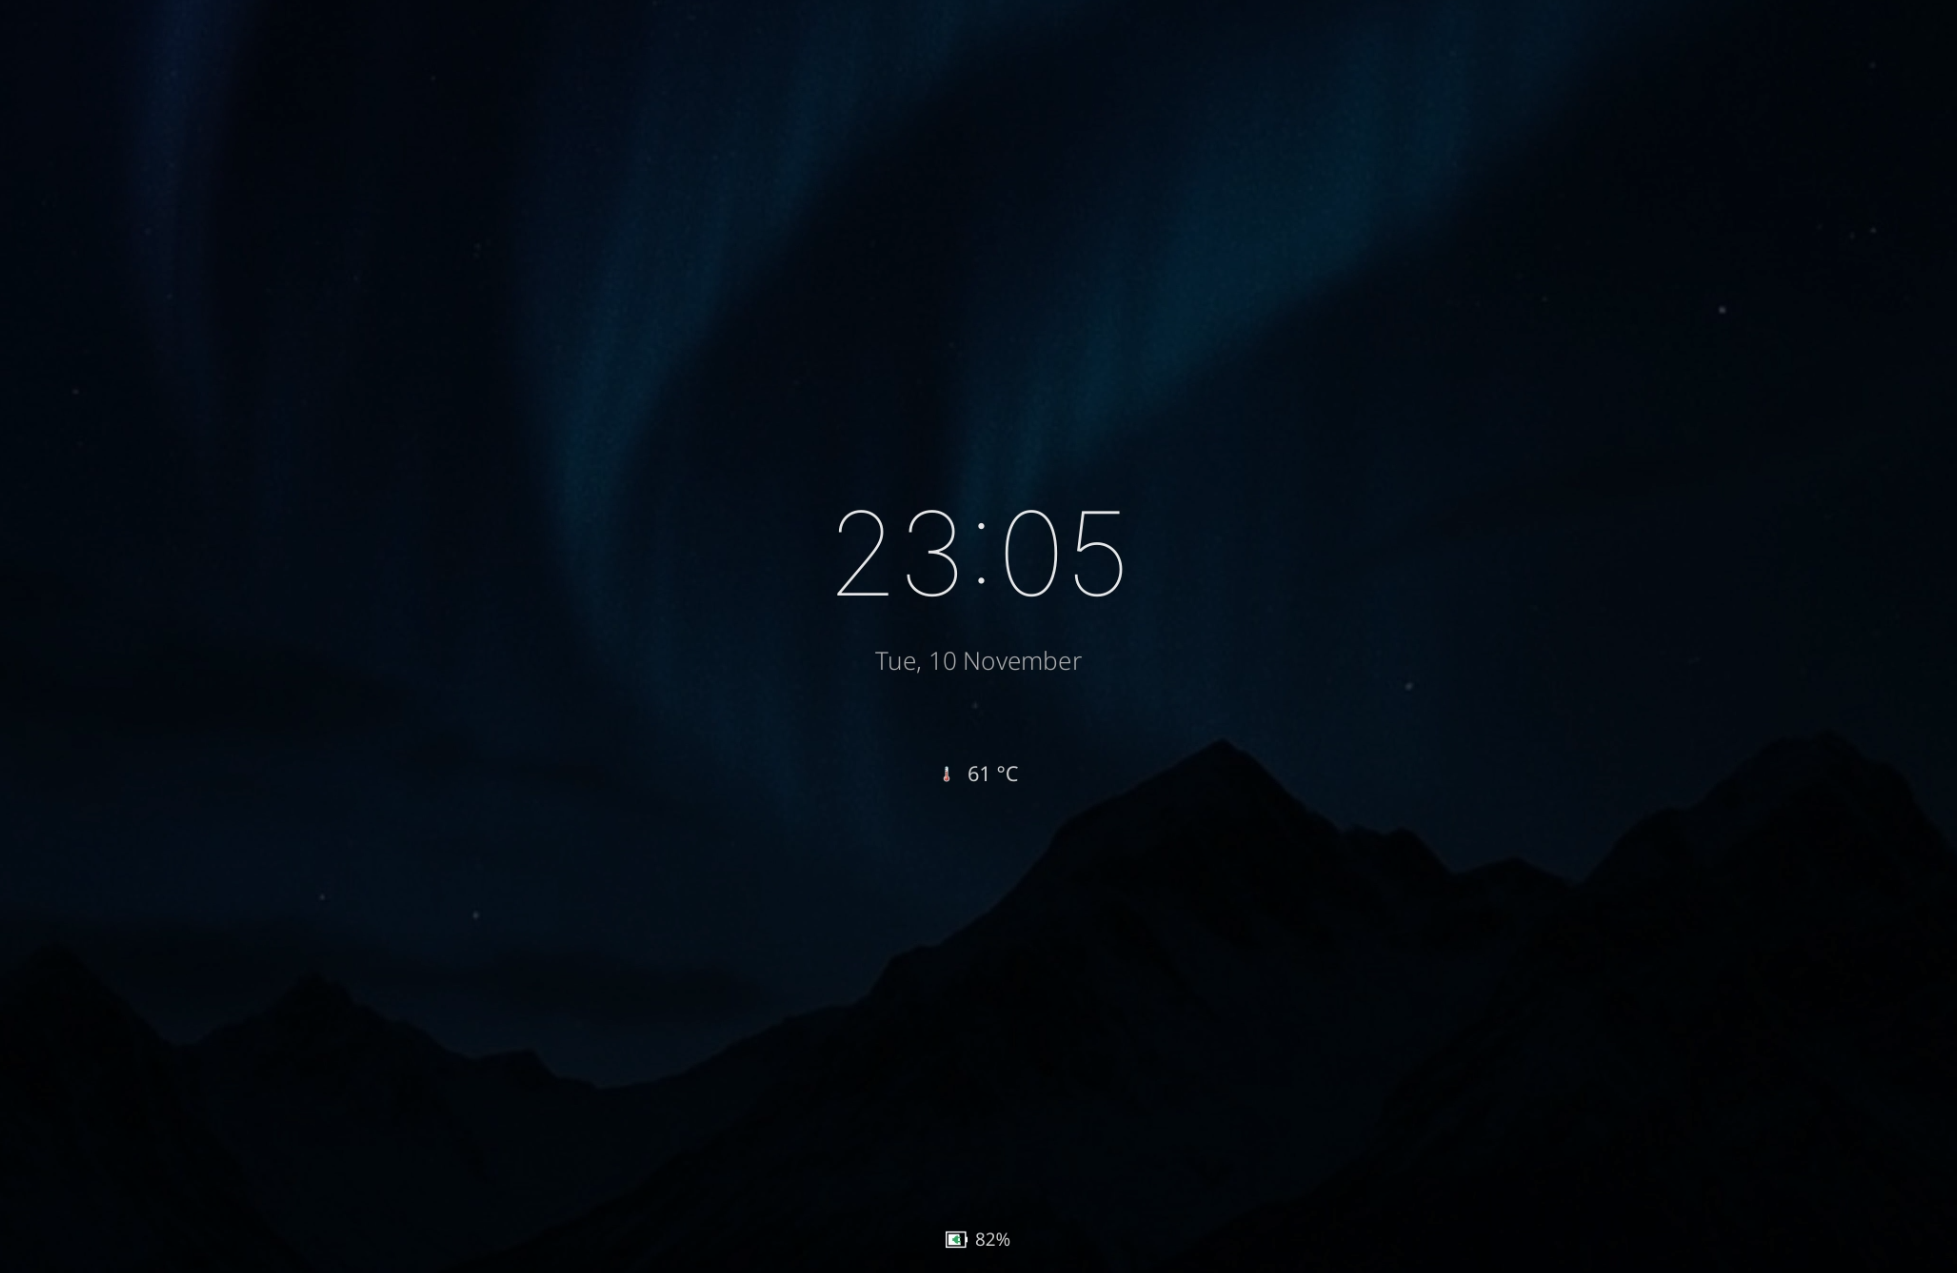
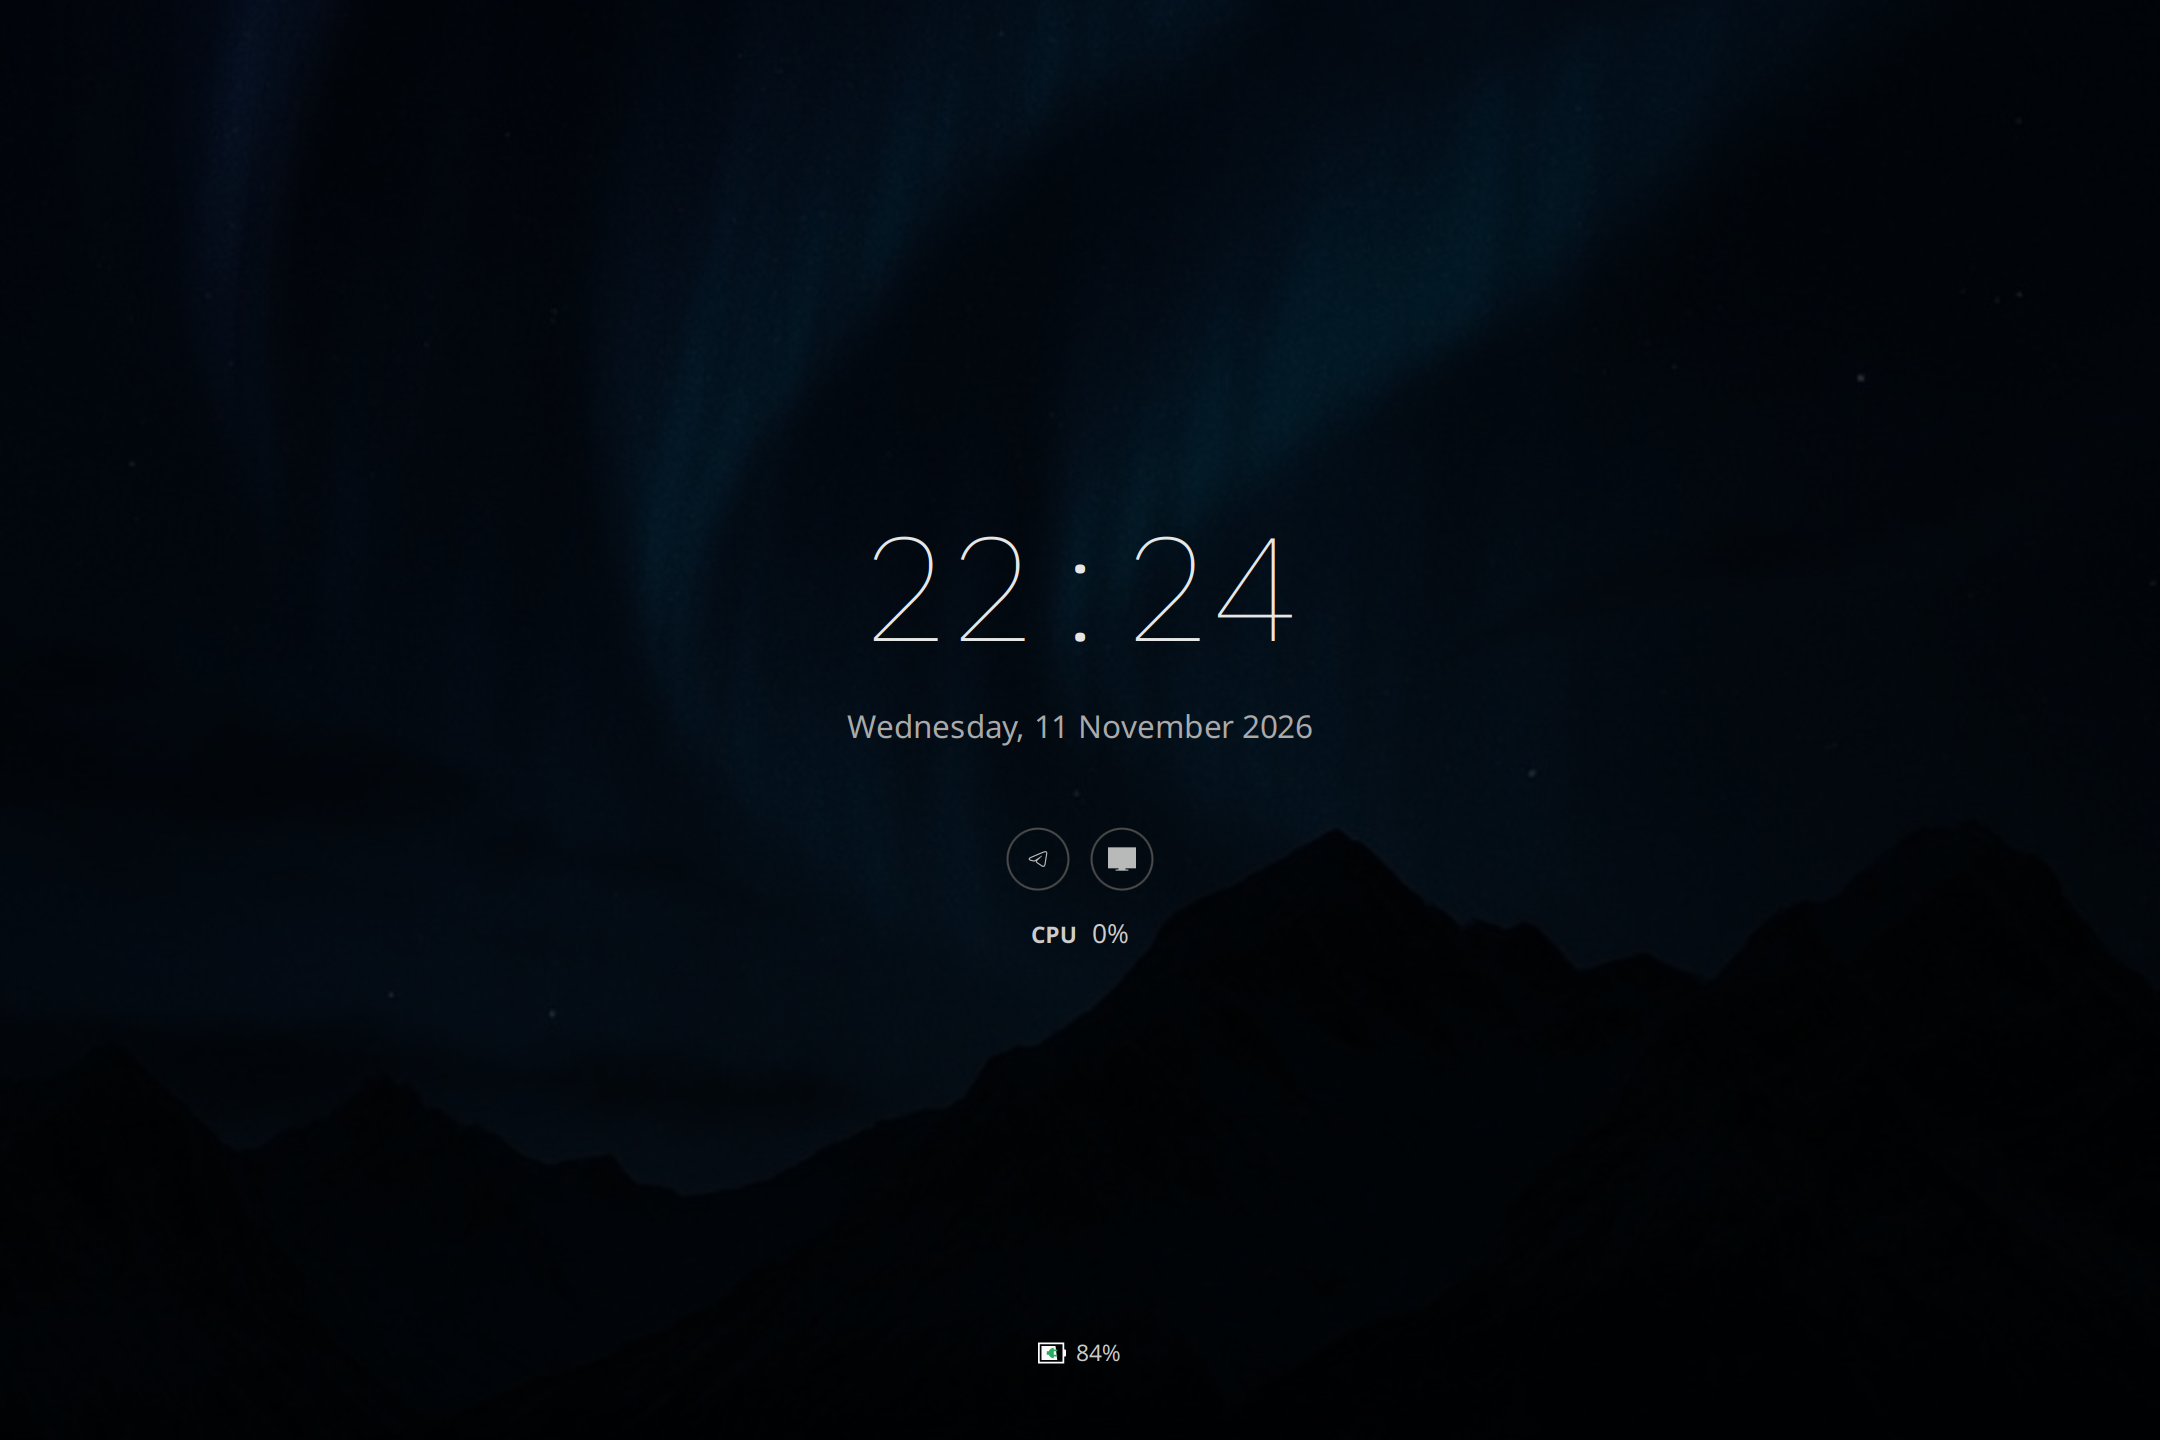
docs(readme,resources): change screenshots with standard breeze dark theme

diff --git a/README.md b/README.md
@@ -38,11 +38,13 @@ A customizable, lightweight Always-On-Display (AOD) screen for KDE Plasma 6 that
 
 ## Screenshots
 
-| Always-On Display | Settings |
-| :---: | :---: |
-| ![AOD Screenshot](./docs/resources/screenshots/aod-1.png) | ![AOD Settings Appearance Screenshot](./docs/resources/screenshots/settings-1.png)<br><br>![AOD Settings Extensions Screenshot](./docs/resources/screenshots/settings-2.png) |
+| Always-On Display |
+| :---: |
+| ![AOD Screenshot](./docs/resources/screenshots/aod-1.png) |
 
----
+| Settings - Appearance | Settings - Extensions |
+| :---: | :---: |
+| ![AOD Settings Appearance Screenshot](./docs/resources/screenshots/settings-1.png) | ![AOD Settings Extensions Screenshot](./docs/resources/screenshots/settings-2.png) |
 
 ## Installation
 
